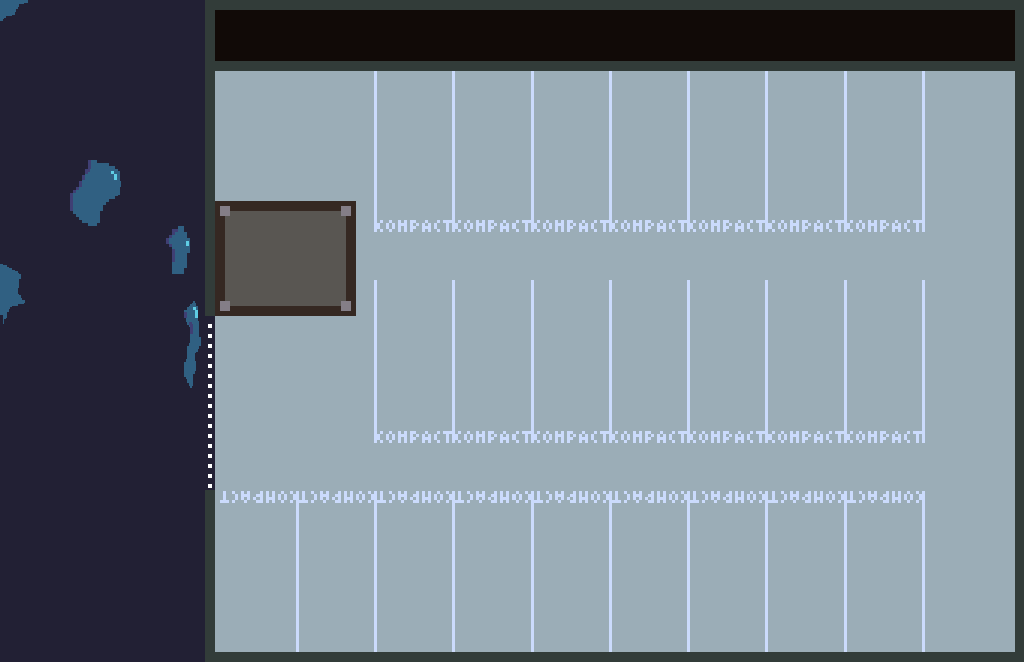
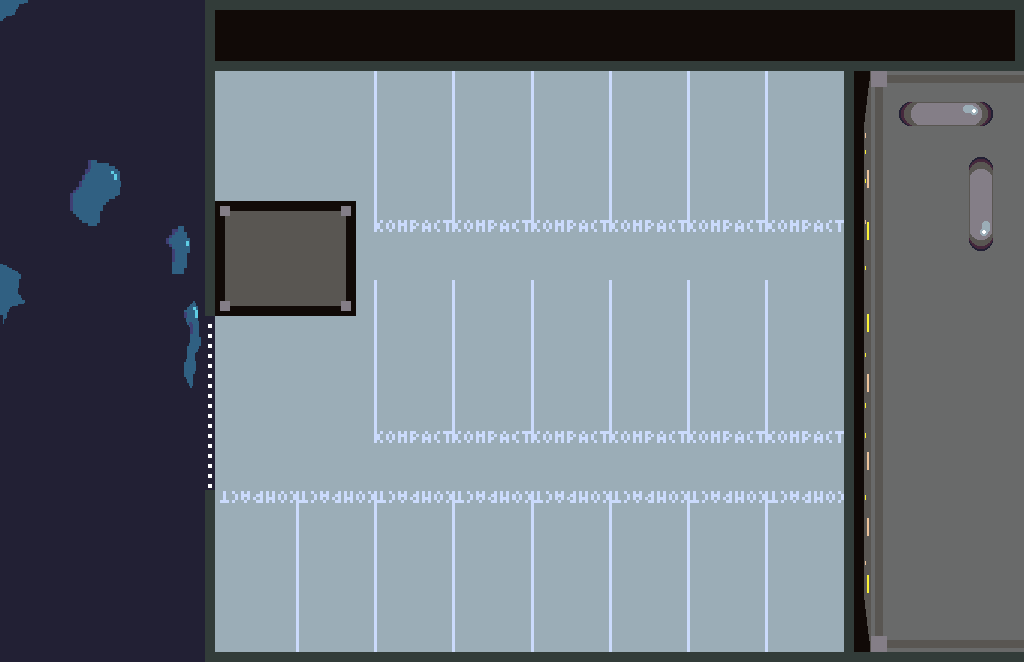
game complete enough for publish

Changed region(s): [[0.8125, 0.0906, 1.0, 0.997], [0.1875, 0.3021, 0.375, 0.4834]]

diff --git a/game.js b/game.js
@@ -26,11 +26,16 @@
     return min + Math.floor(Math.random() * (max+1-min));
   }
 
+  function timeToMin(time) {
+    const parts = time.replace("PM", "").split(":");
+    return 720 + parts[0] * 60 + parts[1]*1;
+  }
+
   function makeCar(sprIndex, timeArrival, timePickup) {
     return {
       sprIndex: sprIndex,
-      timeArrival: timeArrival,
-      timePickup: timePickup,
+      timeArrival: timeToMin(timeArrival),
+      timePickup: timeToMin(timePickup),
       npcSprIndex: random(0, NB_NPC_TYPES-1),
       width: carSizes[sprIndex].w,
       height: carSizes[sprIndex].h,
@@ -50,22 +55,24 @@
   const TINT_NONE = 0xffffff;
   const TINT_SUCCESS = 0x99e550;
   const TINT_WARNING = 0xfbf236;
+  const START_AT_LVL = 0;
 
   let wallGroup, npcCarGroup, npcGroup, uiGroup, playerGroup;
   let player, cursors, currentCar, deliveryZone;
   let music;
   let hasPlayerLost = false;
+  let areCustomersAfter7 = false;
   let hasPlayerWon = false;
   let sndMoney, sndDoorOpen, sndDoorClose, sndWaiting, sndSteps, sndCar;
   let inCar = false;
   let gettingInCar = false;
-  let money = 0, time = 13 * 60;
+  let money = 0, time = timeToMin("3:00PM");
   let actualMoney = 0;
   let textCurrentMoney, textTime;
   let cars = [];
   let timer = 0;
   let carReadyForCustomer = false;
-  let currentLevel = 0;
+  let currentLevel = START_AT_LVL;
   const timeSpeed = 60; // the bigger the slower
   const npcStopY = 260;
   let waitingNpc = null; // waiting with speechbubble for time
@@ -74,7 +81,6 @@
   let arrow, arrowTimer = 0, arrowDir = 1;
   let platformTimer = 0;
   let canPlayCarSound = false;
-  let isPrevLevelGoodPerf = null;
 
   const carSizes = [
     {w: 130, h: 78},
@@ -87,21 +93,53 @@
     {w: 130, h: 78},
   ]
 
-  let levelCars = [[
-    makeCar(0, 13*60+5, 13*60+15),
-    makeCar(1, 13*60+20, 13*60+30),
-    makeCar(2, 13*60+35, 13*60+45),
-    makeCar(3, 13*60+45, 15*60+20),
-    makeCar(4, 14*60, 18*60),
-    makeCar(1, 14*60+15, 16*60+10),
-    makeCar(2, 14*60+30, 16*60),
-    makeCar(6, 14*60+45, 17*60),
-    makeCar(7, 15*60, 16*60+30),
-    makeCar(0, 15*60+10, 17*60+20),
-    makeCar(0, 15*60+20, 17*60+30),
-    makeCar(5, 15*60+35, 17*60+30),
-    makeCar(3, 15*60+50, 18*60+15),
-    makeCar(6, 16*60+5, 17*60),
+  let levelCars = [[ // Level 1: 0,1,2,5,6,7
+    makeCar(0, "3:01PM", "3:45PM"),
+    makeCar(1, "3:10PM", "4:25PM"),
+    makeCar(2, "3:20PM", "4:05PM"),
+    makeCar(2, "3:30PM", "4:30PM"),
+    makeCar(1, "3:40PM", "6:00PM"),
+    makeCar(6, "3:50PM", "4:45PM"),
+    makeCar(1, "4:05PM", "5:00PM"),
+    makeCar(5, "4:15PM", "5:10PM"),
+    makeCar(6, "4:25PM", "5:25PM"),
+    makeCar(6, "4:40PM", "5:30PM"),
+    makeCar(5, "4:50PM", "6:10PM"),
+    makeCar(7, "5:05PM", "6:30PM"),
+    makeCar(7, "5:10PM", "6:20PM"),
+    makeCar(5, "5:25PM", "6:40PM"),
+  ], [ // Level 2
+    makeCar(2, "3:01PM", "3:30PM"),
+    makeCar(3, "3:10PM", "4:00PM"),
+    makeCar(4, "3:20PM", "4:05PM"),
+    makeCar(2, "3:30PM", "4:30PM"),
+    makeCar(3, "3:40PM", "6:00PM"),
+    makeCar(6, "3:50PM", "4:45PM"),
+    makeCar(1, "4:00PM", "5:15PM"),
+    makeCar(4, "4:10PM", "5:20PM"),
+    makeCar(6, "4:20PM", "5:30PM"),
+    makeCar(6, "4:30PM", "5:45PM"),
+    makeCar(4, "4:40PM", "6:10PM"),
+    makeCar(7, "4:50PM", "6:00PM"),
+    makeCar(6, "5:00PM", "6:30PM"),
+    makeCar(0, "5:10PM", "6:20PM"),
+    makeCar(2, "5:20PM", "6:40PM"),
+  ], [ // Level 3
+    makeCar(3, "3:01PM", "3:30PM"),
+    makeCar(4, "3:10PM", "4:00PM"),
+    makeCar(3, "3:20PM", "4:05PM"),
+    makeCar(4, "3:30PM", "4:30PM"),
+    makeCar(2, "3:40PM", "4:55PM"),
+    makeCar(3, "3:50PM", "4:45PM"),
+    makeCar(6, "4:00PM", "5:15PM"),
+    makeCar(4, "4:10PM", "5:20PM"),
+    makeCar(5, "4:20PM", "5:30PM"),
+    makeCar(6, "4:30PM", "5:45PM"),
+    makeCar(4, "4:40PM", "6:10PM"),
+    makeCar(7, "4:50PM", "6:00PM"),
+    makeCar(5, "5:00PM", "6:30PM"),
+    makeCar(1, "5:10PM", "6:20PM"),
+    makeCar(4, "5:20PM", "6:45PM"),
   ]];
   let npcCars = [];
 
@@ -157,6 +195,8 @@
 
   gameScene.create = function() {
     hasPlayerLost = false;
+    areCustomersAfter7 = false;
+    time = timeToMin("3:00PM");
     this.add.image(0, 0, 'background').setOrigin(0, 0);
     deliveryZone = this.add.image(103, 550, 'loading-zone');
 
@@ -169,7 +209,7 @@
     // BOTTOM WALL
     wallGroup.create(215+800/2, 652+10/2, 'wall-bottom');
     // RIGHT WALL
-    wallGroup.create(1014+10/2, 0+662/2, 'wall-right');
+    wallGroup.create(844+180/2, 71+580/2, 'wall-right');
     wallGroup.create(215+140/2, 196+120/2, 'booth');
 
     npcCarGroup = this.physics.add.group({});
@@ -240,6 +280,16 @@
         (car) => car.timeArrival === time);
       if (newCar) {
         npcCars.push(this.initializeCarSprite(newCar));
+      }
+      if (time === timeToMin("7:00PM")) { // end of the level!
+        // check to see if there are waiting customers still
+        const waitingOutside = pendingCustomers.filter((c) => c.appeared);
+        areCustomersAfter7 = waitingOutside.length > 0;
+        currentLevel += 1;
+        if (currentLevel > 2) {
+          hasPlayerWon = true;
+        }
+        this.scene.start('PreLevel');
       }
     }
   };
@@ -506,7 +556,6 @@
     if (canMove && car.y < npcStopY) {
       car.y += 1;
       if (car.y === npcStopY) { // unload passanger who becomes a waitingNpc
-        car.data.readyForPickup = true;
         const npcSprite = this.physics.add.sprite(
               car.x - car.width/2 - 10,
               car.y + car.height/2,
@@ -562,11 +611,15 @@
   gameScene.updateMoney = function() {
     if (money < actualMoney) {
       money += 1;
-      textMoney.setStyle(
-        {fontFamily: 'gameplay', fontSize: 38, color: '#6abe30' });
+      if (textMoney.style.color === "#EEE") {
+        textMoney.setStyle(
+          {fontFamily: 'gameplay', fontSize: 38, color: '#6abe30' });
+      }
     } else {
-      textMoney.setStyle(
-        {fontFamily: 'gameplay', fontSize: 34, color: '#EEE' });
+      if (textMoney.style.color === "#6abe30") {
+        textMoney.setStyle(
+          {fontFamily: 'gameplay', fontSize: 34, color: '#EEE' });
+      }
     }
   }
 
@@ -576,6 +629,7 @@
       if (npc.waitingForService) {
         npc.hasWaitedFor += 1;
         if (npc.hasWaitedFor == 30 && npc.sprite.body.enable) {
+          npc.car.data.readyForPickup = true;
           npc.speech = uiGroup.create(
             npc.sprite.x + 70,
             npc.sprite.y - 40,
@@ -726,6 +780,9 @@
 
   menuScene.create = function() {
     hasPlayerLost = false;
+    hasPlayerWon = false;
+    areCustomersAfter7 = false;
+    currentLevel = START_AT_LVL;
     menuBg = this.add.image(0, 0, 'menu-bg').setOrigin(0, 0);
     this.add.text(410, 420, "USE ARROWS+SPACE", {
       fontFamily: 'gameplay', fontSize: 34, color: '#3f3f74' });
@@ -758,7 +815,7 @@
     } else if (cursors.space.isDown && !keyPressed) {
       keyPressed = true;
       if (currentOption == 0) {
-        currentLevel = 0;
+        currentLevel = START_AT_LVL;
         this.scene.start('HowToPlay');
       } else {
         this.scene.start('PreLevel');
@@ -855,6 +912,22 @@
         "THANKS FOR PLAYING!\n" +
         "FINAL SCORE: $" + actualMoney, {
         fontFamily: 'gameplay', fontSize: 20, color: '#FBF236' });
+    } else if (areCustomersAfter7) {
+      this.add.text(530, 120, "YOU LOST!", {
+        fontFamily: 'gameplay', fontSize: 40, color: '#FBF236' });
+      this.add.text(530, 200,
+        "WHAT DO YOU ZINC!!\n" +
+        "WE ARE CLOSED NOW!!\n\n" +
+        "ZERE IS STILL CUSTOMERS,\n" +
+        "WE LOST ZE MONEY!!\n\n" +
+        "YOUR FIRED!! FIRED!!!"
+        , {
+        fontFamily: 'gameplay', fontSize: 20, color: '#FFF' });
+      this.add.text(530, 450,
+        "THANKS FOR PLAYING!\n" +
+        "FINAL SCORE: $" + actualMoney, {
+        fontFamily: 'gameplay', fontSize: 20, color: '#FBF236' });
+
     } else if (hasPlayerWon) {
       this.add.text(530, 120, "YOU WON!", {
         fontFamily: 'gameplay', fontSize: 40, color: '#FBF236' });
@@ -873,15 +946,15 @@
         fontFamily: 'gameplay', fontSize: 20, color: '#FBF236' });
 
     } else if (currentLevel === 0) {
-      this.add.text(530, 120, "MONDAY", {
+      this.add.text(530, 120, "FRIDAY", {
         fontFamily: 'gameplay', fontSize: 40, color: '#FBF236' });
       this.add.text(530, 200,
         "HON HON!! ZERE YOU ARE!!\n" +
         "I COULD SMELL YOU FROM\n" +
         "ZE STREET!\n\n" +
-        "YOUR HERE UNTIL FRIDAY...\n" +
+        "YOUR HERE FOR WEEKEND...\n" +
         "IF I DONT FIRE YOU BEFORE!\n\n" +
-        "YOUR WORK STARTS AT 1PM\n" +
+        "YOUR WORK STARTS AT 3PM\n" +
         "UNTIL 7PM. NO SLEEP!!\n\n" +
         "NOW GO AND PARK ZE CARS\n" +
         "AND MAKE VINCENT RICH!"
@@ -891,7 +964,7 @@
         , {
         fontFamily: 'gameplay', fontSize: 20, color: '#CCC' });
     } else if (currentLevel === 1) {
-      this.add.text(530, 120, "TUESDAY", {
+      this.add.text(530, 120, "SATURDAY", {
         fontFamily: 'gameplay', fontSize: 40, color: '#FBF236' });
       this.add.text(530, 200,
         "STILL HERE?! HON HON!!\n" +
@@ -899,53 +972,25 @@
         "YOU MAKE ME RICH AND YOU\n" +
         "WILL GET ZE BAGETTE I GOT!\n\n" +
         "NOW GO AND STOP WASTING\n" +
-        "ZE TIME OF ZE VINCENT!!\n\n"
+        "ZE TIME OF ZE VINCENT!!\n\n" +
+        "I AM BUZY TASTING ZIS\n" +
+        "SWEET WINE... GO!\n\n"
         , {
         fontFamily: 'gameplay', fontSize: 20, color: '#FFF' });
       this.add.text(650, 620, "HIT SPACE TO CONTINUE"
         , {
         fontFamily: 'gameplay', fontSize: 20, color: '#CCC' });
     } else if (currentLevel === 2) {
-      this.add.text(530, 120, "WEDNESDAY", {
-        fontFamily: 'gameplay', fontSize: 40, color: '#FBF236' });
-      this.add.text(530, 200,
-        "YOU NOT GIVE UP YET?\n" +
-        "YOU SURE ARE NOT FRENCH!\n\n" +
-        "I NEED TO GO GET MY\n" +
-        "CHEESE FOR ZE WINE!\n\n" +
-        "DON'T YOU HAVE ZE JOB?\n" +
-        "WHY AM I PAYING YOU?!\n\n"
-        , {
-        fontFamily: 'gameplay', fontSize: 20, color: '#FFF' });
-      this.add.text(650, 620, "HIT SPACE TO CONTINUE"
-        , {
-        fontFamily: 'gameplay', fontSize: 20, color: '#CCC' });
-    } else if (currentLevel === 3) {
-      this.add.text(530, 120, "THURSDAY", {
-        fontFamily: 'gameplay', fontSize: 40, color: '#FBF236' });
-      this.add.text(530, 200,
-        "LOOK AT ZE NEW CAR I BOUGHT!\n\n" +
-        "DONT FORGET MY CHILD...\n\n" +
-        "IF YOU TOO WORK REALLY,\n" +
-        "REALLY REALLY HARD... THEN\n" +
-        "MAYBE I CAN BUY ANOZER ONE.\n\n" +
-        "ARE WE STILL TALKING?!\n\n"
-        , {
-        fontFamily: 'gameplay', fontSize: 20, color: '#FFF' });
-      this.add.text(650, 620, "HIT SPACE TO CONTINUE"
-        , {
-        fontFamily: 'gameplay', fontSize: 20, color: '#CCC' });
-    } else if (currentLevel === 4) {
-      this.add.text(530, 120, "FRIDAY", {
+      this.add.text(530, 120, "SUNDAY", {
         fontFamily: 'gameplay', fontSize: 40, color: '#FBF236' });
       this.add.text(530, 200,
         "ZIS IS YOUR LAST DAY!\n" +
         "YOU WILL MISS ME, RITE?\n\n" +
-        "YOUR REALLY A SAD CHILD\n" +
-        "IF YOU DONT COME BACK\n\n" +
-        "YOU WILL ALWAYS HAVE A\n" +
-        "PLACE IN MY HEART AND\n" +
-        "IN MY WALLET.\n\n"
+        "LOOK AT ZE NEW CAR I BOUGHT!\n\n" +
+        "TELL YOU WHAT. IF YOU WORK\n" +
+        "REALLY, REALLY HARD... THEN\n" +
+        "MAYBE I CAN BUY ANOZER ONE!\n\n" +
+        "WHY ARE WE STILL TALKING?!\n\n"
         , {
         fontFamily: 'gameplay', fontSize: 20, color: '#FFF' });
       this.add.text(650, 620, "HIT SPACE TO CONTINUE"
@@ -957,7 +1002,7 @@
   preLevelScene.update = function() {
     if (cursors.space.isDown && !keyPressed) {
       keyPressed = true;
-      if (hasPlayerLost) {
+      if (hasPlayerLost || hasPlayerWon || areCustomersAfter7) {
         this.scene.start('MainMenu');
       } else {
         this.scene.start('Game');
